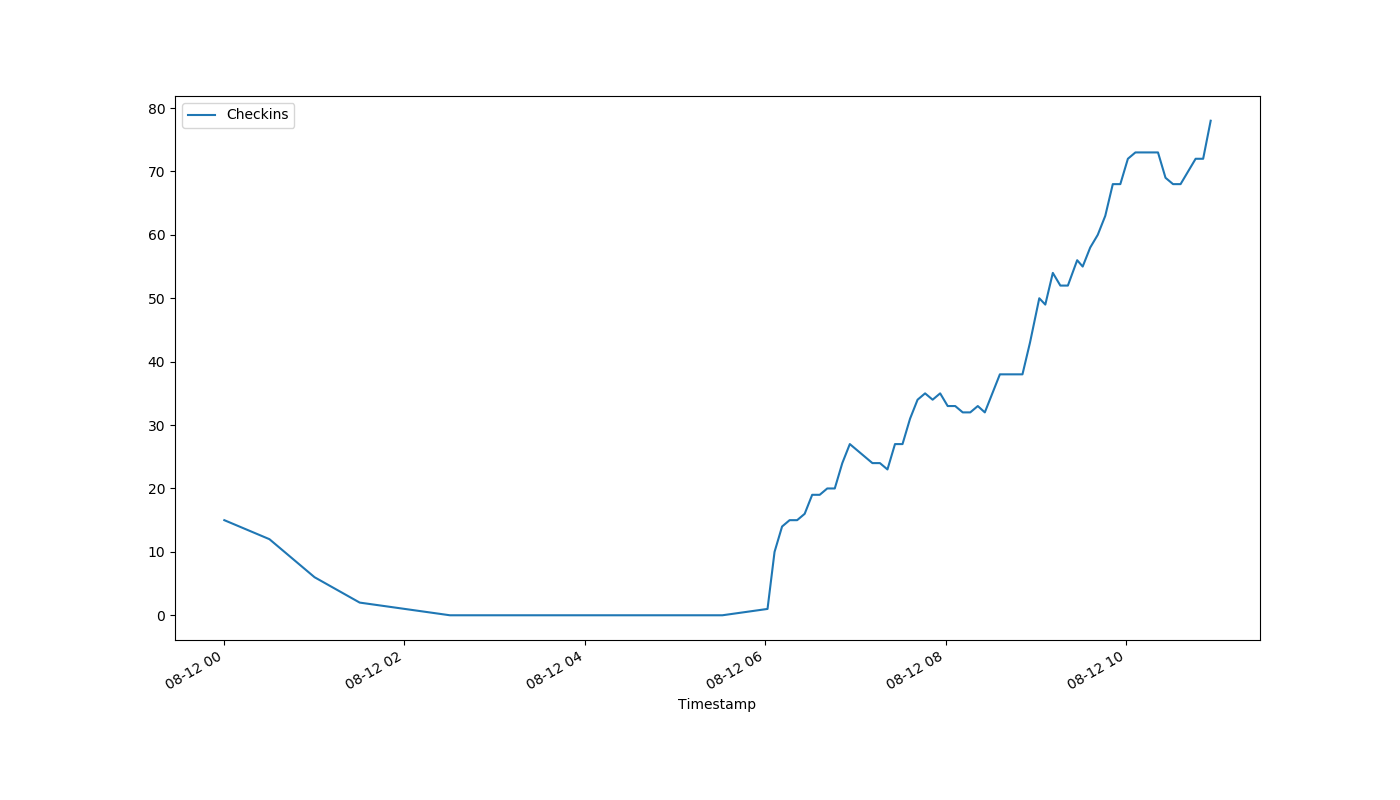
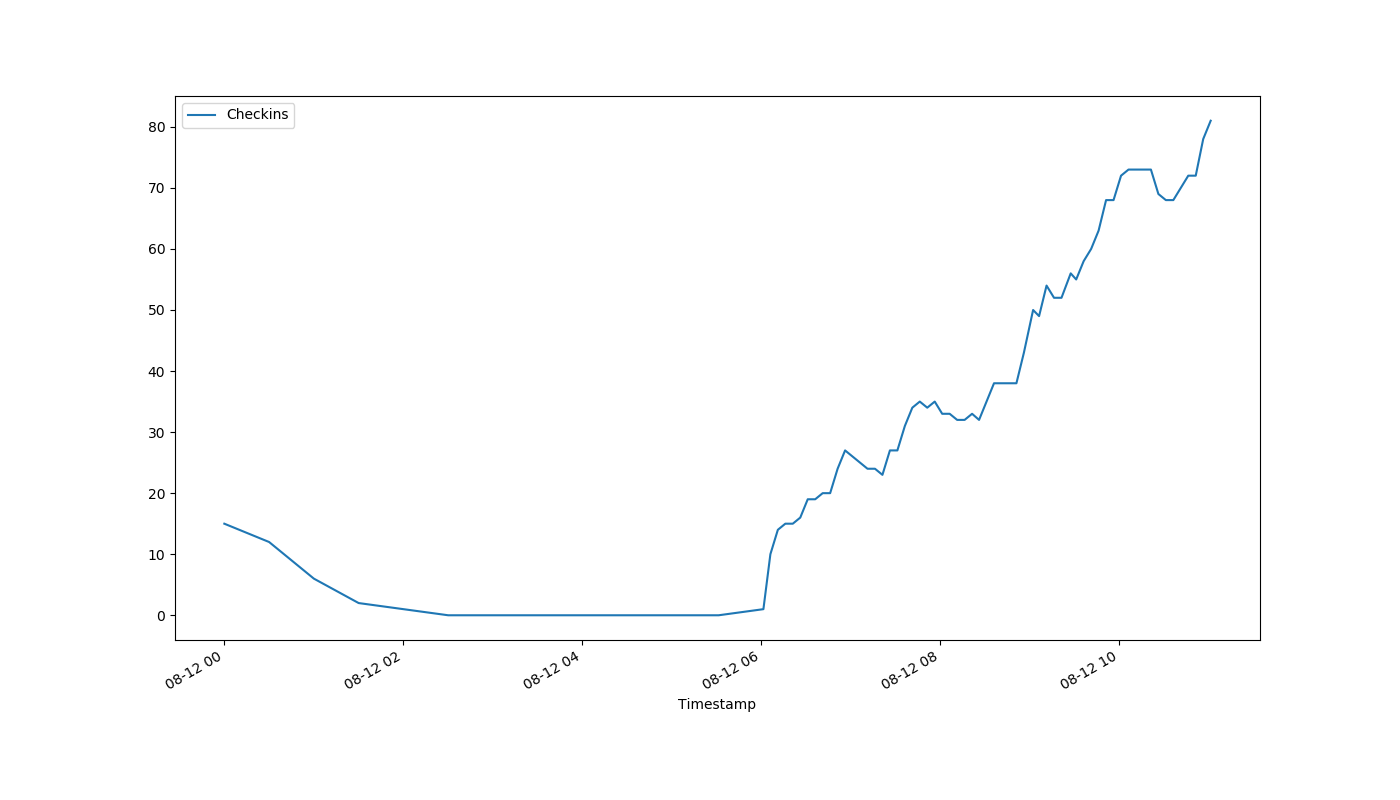
auto-Aug-12-11:02:19

diff --git a/index.html b/index.html
@@ -1,1 +1,1 @@
-<!DOCTYPE html><html><head><meta http-equiv="refresh" content="30"><link rel='stylesheet' href='holmcurrent.css'></head><body><p id='count'>78</p><div id='graph-wrap'><img id='graph' src='holmgraph-Aug-12.png'></div><p id='updated'>Last updated 10:57:01 / 10:56:11</p></body></html>
+<!DOCTYPE html><html><head><meta http-equiv="refresh" content="30"><link rel='stylesheet' href='holmcurrent.css'></head><body><p id='count'>81</p><div id='graph-wrap'><img id='graph' src='holmgraph-Aug-12.png'></div><p id='updated'>Last updated 11:02:01 / 11:01:12</p></body></html>
